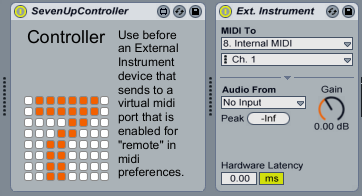
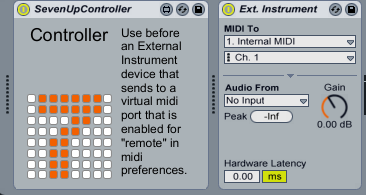
-added documentation for ADC controller -update version numbers and download links

diff --git a/doc/index.htm b/doc/index.htm
@@ -367,32 +367,33 @@ In order to use SevenUp Live you'll need:
 </p>
 <ul>
 	<li>One or more <a href="http://monome.org">monomes</a> (any models will do)</li>
-	<li><a href="http://www.ableton.com">Ableton Live 8.1</a> or greater with <a href="http://www.ableton.com/maxforlive">MaxForLive</a> installed</li>
-	<li><a href="http://cycling74.com/downloads/">Max 5.1</a> installed</li>
+	<li><a href="http://www.ableton.com">Ableton Live 8.1.1</a> or greater with <a href="http://www.ableton.com/maxforlive">MaxForLive</a> installed</li>
+	<li><a href="http://cycling74.com/s/">Max 5.1</a> installed</li>
 	<li><a href="http://monome.org/data/app/monomeserial">MonomeSerial</a> in order for 
         your monome to comunicate with SevenUp</li>
-	<li><a href="http://www.java.com/en/download/index.jsp" >Java Runtime Environment</a> 1.5 or greater (most people will have this installed already)</li>
+	<li><a href="http://www.java.com/en//index.jsp" >Java Runtime Environment</a> 1.5 or greater (most people will have this installed already)</li>
 </ul>
-<a id="download"></a>
-<h1>Download and Installation</h1>
-<p>You can download the latest version (2.0.2) of 7up <a onclick="javascript: pageTracker._trackPageview('/DOWNLOAD/2.0.2');" href="dist/SevenUpLive-v2.0.2.zip">here</a><img src="images/download.png" class="download" />. </p>
+<a id=""></a>
+<h1> and Installation</h1>
+<p>You can  the latest version (2.0.3) of 7up <a onclick="javascript: pageTracker._trackPageview('//2.0.3');" href="dist/SevenUpLive-v2.0.3.zip">here</a><img src="images/.png" class="" />. </p>
 <p>In order to install SevenUp you'll need to follow these instructions:</p>
 <ol>
-<li>Unzip the download package to a directory of your choosing</li>
+<li>Unzip the  package to a directory of your choosing</li>
 <li>Copy the files in the "Supporting" folder into Max's ".../java/lib" folder
 <ul>
     <li>For Windows this will be C:\Program Files\Cycling '74\Max 5.0\Cycling '74\java\lib</li>
     <li>For Mac this will be /Applications/Max5/Cycling '74/java/lib</li>
     </ul>
     </li>
-    <li>Install the included Live pack &quot;SevenUp 2.0 Template.alp&quot; by opening Ableton 
+    <li>Install the included Live pack &quot;SevenUp 2.0.X Template.alp&quot; by opening Ableton 
         Live and choosing &quot;Install Live Pack...&quot; from the file menu.&nbsp; </li>
-    <li>Open the newly installed project, SevenUp 2.0 Template.als, navigate to File -&gt; 
+    <li>Open the newly installed project, SevenUp 2.0.X Template.als, navigate to File -&gt; 
         Manage Files....&nbsp; You should now see a column on the right with some 
         options.&nbsp;&nbsp; Press &quot;Manage Project&quot; and then the &quot;Export&quot; button which 
         is located at the bottom.&nbsp; <b>This is important in order to install the 
         SevenUp presets and devices into your device library.</b><ul>
-            <li>If you are upgrading your installation, as opposed to installing a new installation, be sure to delete your existing "SevenUp" folders under "Max Instruments" and "Max Effects" first before exporting.</li>
+            <li>If you are upgrading your installation, as opposed to installing from scratch, 
+                you may want to delete your existing "SevenUp" folders under "Max Instruments" and "Max Effects" first before exporting.</li>
         </ul>
     </li>
 </ol>
@@ -585,30 +586,39 @@ In order to use SevenUp Live you'll need:
             <td>
                 Alternate Components</td>
             <td>
-                RackMacroController</td>
+                RackMacroController<br />
+                SevenUpADCController</td>
         </tr>
     </table>
 <p>
     The Controller allows you to MIDI map 7 banks of 7 sliders to various knobs in Ableton for a 
-    grand total of 49 unique sliders. While in the Masterizer mode, 
+    grand total of 49 unique sliders. When used in conjunction with the "Tilt" tab of the SevenUp Core component and the SevenUpADCController component, the monome's ADC ports and accelerometer can be used to control knobs as well.  While in the Masterizer mode, 
     you can re-trigger the banks of controllers that you have 
     positioned.</p>
     <p><img src="images/tut_controller.png" /></p>
     <p>In order to use the controller you&#39;ll need to do the following:</p>
     <ol>
-        <li>Open Ableton Live&#39;s MIDI preferences and make sure that you have at least one 
-            MIDI device that is both sending output and input.&nbsp; In the input section, 
-            make sure that that same device has &quot;Remote&quot; enabled.</li>
+        <li>Open Ableton Live&#39;s MIDI preferences for a single virtual midi device, enable its "Track" output and its "Remote" input ONLY.  An example is shown below:
+         <ul><li><img src="images/74l_controller_midiprefs.png"/></li></ul></li>
         <li>Navigate to Devices -&gt; Midi Effects -&gt; Max Midi Effect -&gt; SevenUp -&gt; Controller 
             and drag it into a new track.</li>
         <li>Navigate to Devices -&gt; Instruments -&gt; External Instrument and drag it into the 
-            same track. At this point your device chain should look like this: 
+            same track and select the MIDI device from step 1. At this point your device chain should look like this: 
             <ul><li><img src="images/74l_controller.png"/></li></ul></li>
-        <li>With the External Instrument selected, choose the MIDI device from step 1 as the 
-            input.</li>
         <li>Enter &quot;MIDI&quot; mode by clicking the &quot;MIDI&quot; icon in the top right.&nbsp; Select a 
             knob, slider, or button and press a control slider on your monome.&nbsp; You 
             should notice that the parameter is mapped to a MIDI control.</li>
+    </ol>
+    <h3>Tilt Control</h3>
+    <p>If your monome has an accelerometer, you can use the values being sent over the ADC ports in order to control knobs in Ableton.  In order to do this:</p>
+    <ol>
+    <li>Make sure that you have your ADC ports enabled in monomeserial</li>
+    <li>Navigate to the "Tilt" tab in the SevenUp Core component and click the "Calibrate" button.</li>
+    <li>On the monome, navigate to "Controller" mode (nav slot 3).  When you hold down any sub-nav buttons (the ones that are blinking quickly in the right column) you should see the tilt sliders move in SevenUp Core</li>
+    <li>In order to get a full range of motion, tilt your monome 360 degrees on both the X and Y axis so that SevenUp can learn where the min and max values lie.</li>
+    <li>Once you've finished calibration, click the "On" button.</li>
+    <li>In order to send these values to knobs in Ableton, the process is very similar to the steps above for the normal controller.  Drag an SevenUpADCController component into a new track, then add an external instrument, then send select a virtual midi device with which to receive midi signals.  See the steps above for more detail.
+     <ul><li><img src="images/74l_adccontroller.png"/></li></ul></li>
     </ol>
     <p>
         Additional notes about the controller:</p>
@@ -1138,7 +1148,7 @@ In order to use SevenUp Live you'll need:
     <li>2.0 - 11/29/2009 - Initial release of 2.0</li>
     <li>2.0.1 - 12/02/2009 - Fixed timing issue causing double-hits when pressing play.  Fixed offset issue when playing sequences in loop recorder.</li>
     <li>2.0.2 - 12/16/2009 - Bug fixes to loop recorder.  Added MindShuffler component.</li>
-    
+    <li>2.0.3 - 1/2/2010 - Tilt support added.  Bug fixes to looper.  Optional use of midi clock notes to drive SevenUp's clock which allows users to use groove.</li>
     </ul>
     <a id="contact"></a>
     <h1>Contact</h1>
